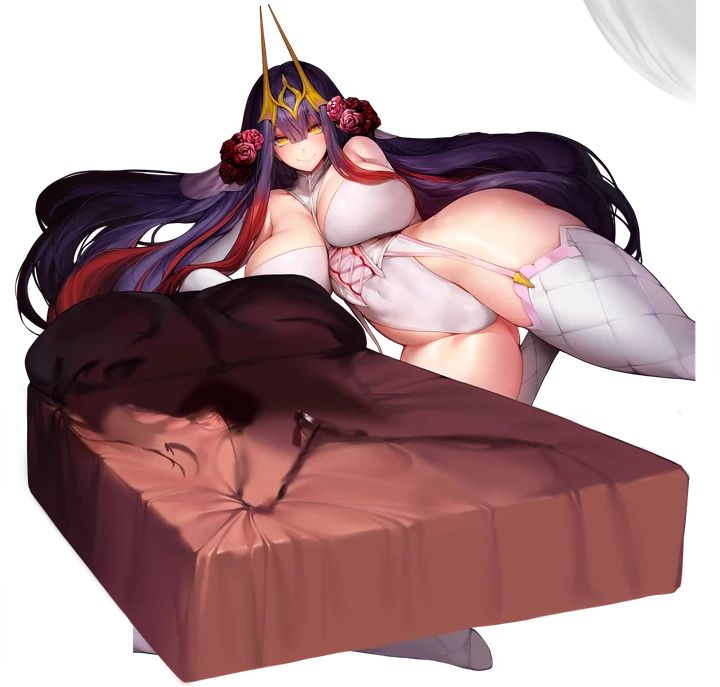
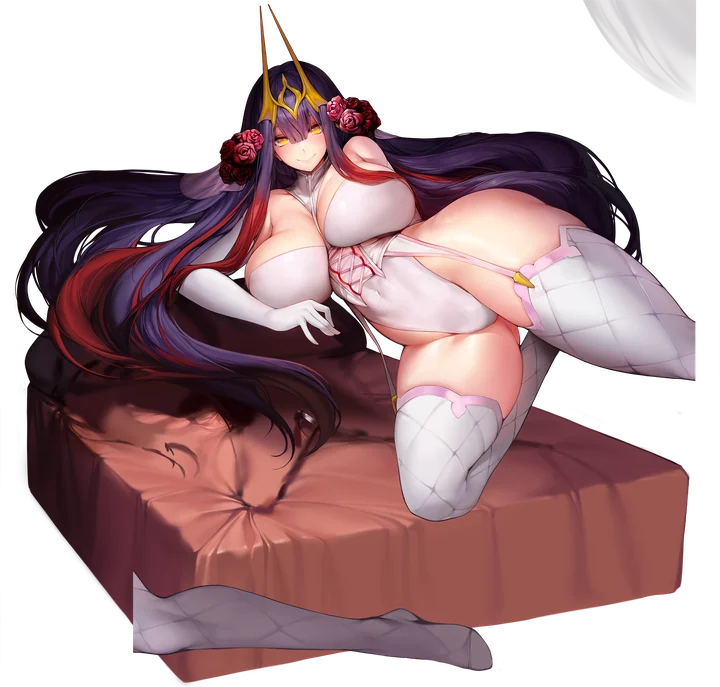
스킨·중파 일러스트 19장의 파츠 겹침 순서 수정(part1 인물이 맨 앞): 타이런트 소녀폭군·골타리온·에키드나·흐레스벨그·실피드·홍련·이터니티 등, v0.56
- tools/extract_forms.py 가 번호가 큰 파츠(장비·이펙트)를 위에 덮던 순서를 반대로
- 원본 파츠와 비교해 잘못 합성된 19장만 다시 만들고 ASSET_REV 로 캐시 갱신
- 이터니티 2번 스킨 중파는 파츠 하나만 들어가 있던 것을 전체 합성으로

Changed region(s): [[0.0611, 0.3974, 0.4889, 0.6725], [0.1833, 0.8253, 0.6417, 0.9782], [0.5194, 0.5197, 0.7333, 0.7642]]

diff --git a/js/forms.js b/js/forms.js
@@ -1,3 +1,3 @@
 // auto-generated by tools/extract_forms.py : 스킨 진화 형태 / 중파 일러스트
 const FORMS = {"leprechaun": {"dam": false, "forms": []}, "gnome": {"dam": true, "forms": [{"skin": "NS1", "dam": true, "voice": true, "icon": true}, {"skin": "NS2", "dam": false, "voice": true, "icon": true}]}, "harpy": {"dam": false, "forms": [{"skin": "NS1", "dam": false, "voice": true, "icon": true}, {"skin": "NS2", "dam": false, "voice": true, "icon": true}]}, "brownie": {"dam": false, "forms": []}, "hyena": {"dam": false, "forms": [{"skin": "NS1", "dam": true, "voice": true, "icon": true}, {"skin": "NS2", "dam": true, "voice": true, "icon": true}]}, "gremlin": {"dam": false, "forms": [{"skin": "NS1", "dam": false, "voice": true, "icon": true}]}, "nymph": {"dam": false, "forms": [{"skin": "NS1", "dam": false, "voice": true, "icon": true}, {"skin": "NS2", "dam": true, "voice": true, "icon": true}]}, "sylphid": {"dam": false, "forms": [{"skin": "NS1", "dam": true, "voice": true, "icon": true}]}, "pixie": {"dam": false, "forms": []}, "undine": {"dam": false, "forms": [{"skin": "NS1", "dam": false, "voice": true, "icon": true}, {"skin": "NS2", "dam": true, "voice": true, "icon": true}]}, "spriggan": {"dam": false, "forms": [{"skin": "NS1", "dam": false, "voice": true, "icon": true}]}, "impet": {"dam": false, "forms": [{"skin": "NS1", "dam": false, "voice": true, "icon": true}]}, "miho": {"dam": false, "forms": [{"skin": "NS2", "dam": false, "voice": true, "icon": true}, {"skin": "NS3", "dam": false, "voice": true, "icon": true}]}, "bulgasari": {"dam": false, "forms": [{"skin": "NS1", "dam": true, "voice": true, "icon": true}, {"skin": "NS2", "dam": true, "voice": true, "icon": true}]}, "talonfeather": {"dam": false, "forms": [{"skin": "NS1", "dam": true, "voice": true, "icon": true}, {"skin": "NS2", "dam": false, "voice": true, "icon": true}]}, "hraesvelgr": {"dam": false, "forms": [{"skin": "NS1", "dam": false, "voice": true, "icon": true}, {"skin": "NS2", "dam": false, "voice": false, "icon": true}]}, "perrault": {"dam": true, "forms": [{"skin": "NS2", "dam": false, "voice": true, "icon": true}, {"skin": "NS3", "dam": true, "voice": true, "icon": true}]}, "alice": {"dam": false, "forms": [{"skin": "NS2", "dam": false, "voice": true, "icon": true}, {"skin": "NS3", "dam": true, "voice": true, "icon": true}]}, "gigantes": {"dam": false, "forms": []}, "daika": {"dam": false, "forms": [{"skin": "NS1", "dam": true, "voice": false, "icon": true}]}, "bloodypanther": {"dam": false, "forms": [{"skin": "NS1", "dam": true, "voice": true, "icon": true}]}, "cheona": {"dam": true, "forms": [{"skin": "NS1", "dam": true, "voice": true, "icon": true}, {"skin": "NS2", "dam": false, "voice": true, "icon": true}]}, "phantom": {"dam": false, "forms": [{"skin": "NS1", "dam": false, "voice": true, "icon": true}]}, "valkyrie": {"dam": false, "forms": [{"skin": "NS1", "dam": false, "voice": true, "icon": true}, {"skin": "NS2", "dam": false, "voice": true, "icon": true}, {"skin": "NS3", "dam": false, "voice": true, "icon": true}, {"skin": "NS4", "dam": true, "voice": true, "icon": true}]}, "tyrant": {"dam": false, "forms": [{"skin": "NS1", "dam": false, "voice": true, "icon": true}]}, "rampart": {"dam": false, "forms": [{"skin": "NS1", "dam": false, "voice": true, "icon": true}]}, "goltarion": {"dam": false, "forms": [{"skin": "NS1", "dam": false, "voice": true, "icon": true}]}, "lindwurm": {"dam": false, "forms": [{"skin": "NS1", "dam": false, "voice": true, "icon": true}, {"skin": "NS2", "dam": false, "voice": true, "icon": true}]}, "phoenix": {"dam": true, "forms": [{"skin": "NS1", "dam": true, "voice": true, "icon": true}, {"skin": "NS2", "dam": true, "voice": true, "icon": true}]}, "roc": {"dam": false, "forms": [{"skin": "NS1", "dam": true, "voice": true, "icon": true}]}, "fafnir": {"dam": false, "forms": []}, "hongryun": {"dam": true, "forms": [{"skin": "NS1", "dam": true, "voice": true, "icon": true}, {"skin": "NS2", "dam": false, "voice": true, "icon": true}, {"skin": "NS3", "dam": true, "voice": true, "icon": true}, {"skin": "NS4", "dam": false, "voice": true, "icon": true}]}, "echidna": {"dam": false, "forms": [{"skin": "NS1", "dam": false, "voice": true, "icon": true}, {"skin": "NS2", "dam": false, "voice": true, "icon": true}, {"skin": "NS3", "dam": true, "voice": true, "icon": true}]}, "efreeti": {"dam": false, "forms": [{"skin": "NS1", "dam": true, "voice": true, "icon": true}]}, "blackhound": {"dam": false, "forms": [{"skin": "NS1", "dam": false, "voice": true, "icon": true}, {"skin": "NS2", "dam": false, "voice": true, "icon": true}]}, "leona": {"dam": false, "forms": [{"skin": "NS2", "dam": false, "voice": true, "icon": true}, {"skin": "NS3", "dam": false, "voice": true, "icon": true}, {"skin": "NS4", "dam": false, "voice": true, "icon": true}]}, "blacklilith": {"dam": false, "forms": [{"skin": "NS1", "dam": false, "voice": false, "icon": true}]}, "eternity": {"dam": true, "forms": [{"skin": "NS1", "dam": true, "voice": true, "icon": true}, {"skin": "NS2", "dam": false, "voice": true, "icon": true}, {"skin": "NS3", "dam": false, "voice": true, "icon": true}]}};
-const FORM_SIZES = {"leprechaun_1": [720, 690], "gnome_dam": [670, 720], "gnome_1": [372, 720], "gnome_1_dam": [405, 720], "gnome_2": [336, 720], "gnome_2_dam": [537, 720], "harpy_1": [700, 720], "harpy_2": [340, 720], "hyena_1": [542, 720], "hyena_1_dam": [558, 720], "hyena_2": [709, 720], "hyena_2_dam": [519, 720], "gremlin_1": [720, 637], "nymph_1": [395, 720], "nymph_2": [644, 720], "nymph_2_dam": [636, 720], "sylphid_1": [457, 720], "sylphid_1_dam": [703, 720], "undine_1": [720, 679], "undine_2": [503, 720], "undine_2_dam": [720, 632], "spriggan_1": [365, 720], "impet_1": [566, 720], "miho_1": [717, 720], "miho_2": [720, 469], "bulgasari_1": [301, 720], "bulgasari_1_dam": [689, 720], "bulgasari_2": [512, 720], "bulgasari_2_dam": [579, 720], "talonfeather_1": [720, 587], "talonfeather_1_dam": [720, 457], "talonfeather_2": [619, 720], "hraesvelgr_1": [366, 720], "hraesvelgr_2": [720, 720], "perrault_dam": [720, 667], "perrault_1": [685, 720], "perrault_2": [684, 720], "perrault_2_dam": [515, 720], "alice_1": [427, 720], "alice_2": [695, 720], "alice_2_dam": [711, 720], "daika_1": [436, 720], "daika_1_dam": [437, 720], "bloodypanther_1": [700, 720], "bloodypanther_1_dam": [518, 720], "cheona_dam": [659, 720], "cheona_1": [304, 720], "cheona_1_dam": [684, 720], "cheona_2": [720, 668], "phantom_1": [585, 720], "valkyrie_1": [552, 720], "valkyrie_2": [696, 720], "valkyrie_3": [701, 720], "valkyrie_4": [720, 603], "valkyrie_4_dam": [669, 720], "tyrant_1": [718, 720], "rampart_1": [638, 720], "goltarion_1": [720, 712], "lindwurm_1": [424, 720], "lindwurm_2": [388, 720], "phoenix_dam": [699, 720], "phoenix_1": [636, 720], "phoenix_1_dam": [692, 720], "phoenix_2": [615, 720], "phoenix_2_dam": [720, 590], "roc_1": [720, 490], "roc_1_dam": [720, 643], "hongryun_dam": [580, 720], "hongryun_1": [678, 720], "hongryun_1_dam": [524, 720], "hongryun_2": [641, 720], "hongryun_2_dam": [622, 720], "hongryun_3": [615, 720], "hongryun_3_dam": [720, 560], "hongryun_4": [309, 720], "echidna_1": [720, 698], "echidna_2": [720, 687], "echidna_3": [527, 720], "echidna_3_dam": [622, 720], "efreeti_1": [503, 720], "efreeti_1_dam": [662, 720], "blackhound_1": [510, 720], "blackhound_2": [432, 720], "leona_1": [720, 717], "leona_2": [720, 691], "leona_3": [619, 720], "blacklilith_1": [499, 720], "blacklilith_2": [451, 720], "blacklilith_2_dam": [720, 651], "blacklilith_3": [519, 720], "eternity_dam": [720, 650], "eternity_1": [677, 720], "eternity_1_dam": [644, 720], "eternity_2": [720, 719], "eternity_2_dam": [720, 313], "eternity_3": [720, 475]};
+const FORM_SIZES = {"leprechaun_1": [720, 690], "gnome_dam": [670, 720], "gnome_1": [372, 720], "gnome_1_dam": [405, 720], "gnome_2": [336, 720], "gnome_2_dam": [537, 720], "harpy_1": [700, 720], "harpy_2": [340, 720], "hyena_1": [542, 720], "hyena_1_dam": [558, 720], "hyena_2": [709, 720], "hyena_2_dam": [519, 720], "gremlin_1": [720, 637], "nymph_1": [395, 720], "nymph_2": [644, 720], "nymph_2_dam": [636, 720], "sylphid_1": [457, 720], "sylphid_1_dam": [703, 720], "undine_1": [720, 679], "undine_2": [503, 720], "undine_2_dam": [720, 632], "spriggan_1": [365, 720], "impet_1": [566, 720], "miho_1": [717, 720], "miho_2": [720, 469], "bulgasari_1": [301, 720], "bulgasari_1_dam": [689, 720], "bulgasari_2": [512, 720], "bulgasari_2_dam": [579, 720], "talonfeather_1": [720, 587], "talonfeather_1_dam": [720, 457], "talonfeather_2": [619, 720], "hraesvelgr_1": [366, 720], "hraesvelgr_2": [720, 720], "perrault_dam": [720, 667], "perrault_1": [685, 720], "perrault_2": [684, 720], "perrault_2_dam": [515, 720], "alice_1": [427, 720], "alice_2": [695, 720], "alice_2_dam": [711, 720], "daika_1": [436, 720], "daika_1_dam": [437, 720], "bloodypanther_1": [700, 720], "bloodypanther_1_dam": [518, 720], "cheona_dam": [659, 720], "cheona_1": [304, 720], "cheona_1_dam": [684, 720], "cheona_2": [720, 668], "phantom_1": [585, 720], "valkyrie_1": [552, 720], "valkyrie_2": [696, 720], "valkyrie_3": [701, 720], "valkyrie_4": [720, 603], "valkyrie_4_dam": [669, 720], "tyrant_1": [718, 720], "rampart_1": [638, 720], "goltarion_1": [720, 712], "lindwurm_1": [424, 720], "lindwurm_2": [388, 720], "phoenix_dam": [699, 720], "phoenix_1": [636, 720], "phoenix_1_dam": [692, 720], "phoenix_2": [615, 720], "phoenix_2_dam": [720, 590], "roc_1": [720, 490], "roc_1_dam": [720, 643], "hongryun_dam": [580, 720], "hongryun_1": [678, 720], "hongryun_1_dam": [524, 720], "hongryun_2": [641, 720], "hongryun_2_dam": [622, 720], "hongryun_3": [615, 720], "hongryun_3_dam": [720, 560], "hongryun_4": [309, 720], "echidna_1": [720, 698], "echidna_2": [720, 687], "echidna_3": [527, 720], "echidna_3_dam": [622, 720], "efreeti_1": [503, 720], "efreeti_1_dam": [662, 720], "blackhound_1": [510, 720], "blackhound_2": [432, 720], "leona_1": [720, 717], "leona_2": [720, 691], "leona_3": [619, 720], "blacklilith_1": [499, 720], "blacklilith_2": [451, 720], "blacklilith_2_dam": [720, 651], "blacklilith_3": [519, 720], "eternity_dam": [720, 650], "eternity_1": [677, 720], "eternity_1_dam": [644, 720], "eternity_2": [720, 719], "eternity_2_dam": [720, 532], "eternity_3": [720, 475]};

diff --git a/js/formsextra.js b/js/formsextra.js
@@ -2,6 +2,6 @@
 Object.assign(FORMS, {"albatross": {"dam": false, "forms": [{"skin": "NS1", "dam": false, "voice": false, "icon": false}]}, "alexandra": {"dam": false, "forms": [{"skin": "NS2", "dam": false, "voice": false, "icon": false}]}, "constantia": {"dam": false, "forms": [{"skin": "NS0", "dam": false, "voice": false, "icon": false}]}, "erato": {"dam": false, "forms": [{"skin": "NS2", "dam": false, "voice": false, "icon": false}]}, "fallen": {"dam": false, "forms": [{"skin": "RV", "dam": false, "voice": false, "icon": false}]}, "frigga": {"dam": false, "forms": [{"skin": "NS2", "dam": false, "voice": false, "icon": false}]}, "habetrot": {"dam": false, "forms": [{"skin": "NS1", "dam": false, "voice": false, "icon": false}]}, "janghwa": {"dam": false, "forms": [{"skin": "NS1", "dam": false, "voice": false, "icon": false}]}, "khan": {"dam": false, "forms": [{"skin": "NS1", "dam": false, "voice": false, "icon": false}]}, "kunoichizero": {"dam": false, "forms": [{"skin": "NS2", "dam": false, "voice": false, "icon": false}]}, "lrl": {"dam": false, "forms": [{"skin": "NS4", "dam": false, "voice": false, "icon": false}]}, "may": {"dam": false, "forms": [{"skin": "NS2", "dam": false, "voice": false, "icon": false}]}, "mercury": {"dam": false, "forms": [{"skin": "NS1", "dam": false, "voice": false, "icon": false}]}, "muse": {"dam": false, "forms": [{"skin": "NS1", "dam": false, "voice": false, "icon": false}]}, "neodym": {"dam": false, "forms": [{"skin": "NS1", "dam": false, "voice": false, "icon": false}]}, "nightangel": {"dam": false, "forms": [{"skin": "NS2", "dam": false, "voice": false, "icon": false}]}, "pa00el": {"dam": false, "forms": [{"skin": "NS2", "dam": false, "voice": false, "icon": false}]}, "rena": {"dam": false, "forms": [{"skin": "NS1", "dam": false, "voice": false, "icon": false}]}, "salamander": {"dam": false, "forms": [{"skin": "NS1", "dam": false, "voice": false, "icon": false}]}, "saraqael": {"dam": false, "forms": [{"skin": "NS1", "dam": false, "voice": false, "icon": false}]}, "scathy": {"dam": false, "forms": [{"skin": "NS1", "dam": false, "voice": false, "icon": false}]}, "sleipnir": {"dam": false, "forms": [{"skin": "NS2", "dam": false, "voice": false, "icon": false}]}, "sonia": {"dam": false, "forms": [{"skin": "NS1", "dam": false, "voice": false, "icon": false}]}, "stratoangel": {"dam": false, "forms": [{"skin": "NS1", "dam": false, "voice": false, "icon": false}]}});
 Object.assign(FORM_SIZES, {"albatross_1": [720, 719], "alexandra_1": [437, 720], "constantia_1": [449, 720], "erato_1": [225, 720], "fallen_1": [639, 720], "frigga_1": [269, 720], "habetrot_1": [314, 720], "janghwa_1": [577, 720], "khan_1": [321, 720], "kunoichizero_1": [489, 720], "lrl_1": [595, 720], "may_1": [720, 692], "mercury_1": [573, 720], "muse_1": [343, 720], "neodym_1": [581, 720], "nightangel_1": [720, 706], "pa00el_1": [299, 720], "rena_1": [260, 720], "salamander_1": [327, 720], "saraqael_1": [687, 720], "scathy_1": [520, 720], "sleipnir_1": [301, 720], "sonia_1": [323, 720], "stratoangel_1": [717, 720]});
 // 같은 파일명으로 교체한 기본 그림은 캐시를 새로 받는다
-Object.assign(ASSET_REV, {"full/lemonbeta": 3, "full/ajax": 2, "full/albatross": 2, "full/alexandra": 2, "full/amphitrite": 2, "full/brunhild": 2, "full/constantia": 4, "full/drm": 2, "full/erato": 2, "full/fallen": 2, "full/frigga": 2, "full/glacias": 2, "full/habetrot": 2, "full/janghwa": 2, "full/khan": 2, "full/kunoichizero": 2, "full/lrl": 3, "full/may": 2, "full/melite": 2, "full/mercury": 2, "full/mnemosyne": 2, "full/muse": 2, "full/neodym": 2, "full/nightangel": 2, "full/pa00el": 2, "full/peregrinus": 2, "full/ramiel": 2, "full/rena": 2, "full/sadius": 2, "full/salacia": 2, "full/salamander": 2, "full/saraqael": 2, "full/scarabya": 2, "full/scathy": 2, "full/sirene": 2, "full/sleipnir": 2, "full/sonia": 2, "full/stratoangel": 2, "full/vargr": 2});
+Object.assign(ASSET_REV, {"full/lemonbeta": 3, "full/ajax": 2, "full/albatross": 2, "full/alexandra": 2, "full/amphitrite": 2, "full/brunhild": 2, "full/constantia": 4, "full/drm": 2, "full/erato": 2, "full/fallen": 2, "full/frigga": 2, "full/glacias": 2, "full/habetrot": 2, "full/janghwa": 2, "full/khan": 2, "full/kunoichizero": 2, "full/lrl": 3, "full/may": 2, "full/melite": 2, "full/mercury": 2, "full/mnemosyne": 2, "full/muse": 2, "full/neodym": 2, "full/nightangel": 2, "full/pa00el": 2, "full/peregrinus": 2, "full/ramiel": 2, "full/rena": 2, "full/sadius": 2, "full/salacia": 2, "full/salamander": 2, "full/saraqael": 2, "full/scarabya": 2, "full/scathy": 2, "full/sirene": 2, "full/sleipnir": 2, "full/sonia": 2, "full/stratoangel": 2, "full/vargr": 2, "full/valkyrie_4_dam": 2, "full/miho_2": 2, "full/hyena_1": 2, "full/hyena_2_dam": 2, "full/alice_2": 2, "full/gnome_2": 2, "full/gnome_2_dam": 2, "full/tyrant_1": 2, "full/goltarion_1": 2, "full/echidna_2": 2, "full/hraesvelgr_2": 2, "full/talonfeather_1": 2, "full/sylphid_1": 2, "full/phoenix_1_dam": 2, "full/phoenix_2_dam": 2, "full/hongryun_1": 2, "full/hongryun_2_dam": 2, "full/eternity_2": 2, "full/eternity_2_dam": 2});
 // 다시 만든 SD 리그는 캐시를 새로 받는다 (js/sd.js 가 ?r= 를 붙임)
 window.SD_REV = Object.assign(window.SD_REV || {}, { lemongamma: 3, lemonalpha: 3, lemonepsilon: 3, perrault: 2 });

diff --git a/index.html b/index.html
@@ -3,7 +3,7 @@
 <head>
 <meta charset="utf-8">
 <meta name="viewport" content="width=device-width,initial-scale=1,maximum-scale=1,user-scalable=no">
-<title>라스트 로이드 - LAST ROID v0.55</title>
+<title>라스트 로이드 - LAST ROID v0.56</title>
 <link rel="preconnect" href="https://fonts.googleapis.com">
 <link href="https://fonts.googleapis.com/css2?family=Black+Han+Sans&family=Noto+Sans+KR:wght@500;600;700;800;900&display=swap" rel="stylesheet">
 <style>
@@ -67,42 +67,42 @@
   </div>
   <div class="btn" data-act="menu">MENU</div>
 </div>
-<script src="js/pack.js?v=150"></script>
-<script src="js/sd.js?v=150"></script>
-<script src="js/sd/index.js?v=150"></script>
-<script src="js/assetsizes.js?v=150"></script>
-<script src="js/facing.js?v=150"></script>
-<script src="js/forms.js?v=150"></script>
-<script src="js/skinnames.js?v=150"></script>
-<script src="js/data.js?v=150"></script>
-<script src="js/fximg.js?v=150"></script>
-<script src="js/fx.js?v=150"></script>
-<script src="js/core.js?v=150"></script>
-<script src="js/formsextra.js?v=150"></script>
-<script src="js/ui.js?v=150"></script>
-<script src="js/battleanchor-data.js?v=150"></script>
-<script src="js/battleanchors.js?v=150"></script>
-<script src="js/battle.js?v=150"></script>
-<script src="js/battleui.js?v=150"></script>
-<script src="js/fx/_meta.js?v=150"></script>
-<script src="js/fxbake.js?v=150"></script>
-<script src="js/battlefx.js?v=150"></script>
-<script src="js/maps.js?v=150"></script>
-<script src="js/sdfield.js?v=150"></script>
-<script src="js/commander.js?v=150"></script>
-<script src="js/world.js?v=150"></script>
-<script src="js/terrain.js?v=150"></script>
-<script src="js/game.js?v=150"></script>
-<script src="js/league.js?v=150"></script>
-<script src="js/rosterdata.js?v=150"></script>
-<script src="js/roster.js?v=150"></script>
-<script src="js/quests.js?v=150"></script>
-<script src="js/mobilefield.js?v=150"></script>
-<script src="js/portraitui.js?v=150"></script>
-<script src="js/townwarp.js?v=150"></script>
-<script src="js/titlelayout.js?v=150"></script>
-<script src="js/battleportrait.js?v=150"></script>
-<script src="js/skillfx.js?v=150"></script>
-<script src="js/crashlog.js?v=150"></script>
+<script src="js/pack.js?v=151"></script>
+<script src="js/sd.js?v=151"></script>
+<script src="js/sd/index.js?v=151"></script>
+<script src="js/assetsizes.js?v=151"></script>
+<script src="js/facing.js?v=151"></script>
+<script src="js/forms.js?v=151"></script>
+<script src="js/skinnames.js?v=151"></script>
+<script src="js/data.js?v=151"></script>
+<script src="js/fximg.js?v=151"></script>
+<script src="js/fx.js?v=151"></script>
+<script src="js/core.js?v=151"></script>
+<script src="js/formsextra.js?v=151"></script>
+<script src="js/ui.js?v=151"></script>
+<script src="js/battleanchor-data.js?v=151"></script>
+<script src="js/battleanchors.js?v=151"></script>
+<script src="js/battle.js?v=151"></script>
+<script src="js/battleui.js?v=151"></script>
+<script src="js/fx/_meta.js?v=151"></script>
+<script src="js/fxbake.js?v=151"></script>
+<script src="js/battlefx.js?v=151"></script>
+<script src="js/maps.js?v=151"></script>
+<script src="js/sdfield.js?v=151"></script>
+<script src="js/commander.js?v=151"></script>
+<script src="js/world.js?v=151"></script>
+<script src="js/terrain.js?v=151"></script>
+<script src="js/game.js?v=151"></script>
+<script src="js/league.js?v=151"></script>
+<script src="js/rosterdata.js?v=151"></script>
+<script src="js/roster.js?v=151"></script>
+<script src="js/quests.js?v=151"></script>
+<script src="js/mobilefield.js?v=151"></script>
+<script src="js/portraitui.js?v=151"></script>
+<script src="js/townwarp.js?v=151"></script>
+<script src="js/titlelayout.js?v=151"></script>
+<script src="js/battleportrait.js?v=151"></script>
+<script src="js/skillfx.js?v=151"></script>
+<script src="js/crashlog.js?v=151"></script>
 </body>
 </html>

diff --git a/js/game.js b/js/game.js
@@ -64,7 +64,7 @@ class Mon {
 //  게임 상태
 // ---------------------------------------------------------------------
 const SAVE_KEY = 'racketmon_save_v1';
-const GAME_VERSION = 'v0.55';
+const GAME_VERSION = 'v0.56';
 const Game = {
   party: [], box: [], bag: {}, money: 3000, dex: { seen: {}, caught: {} }, flags: {}, badges: [], stats: {}, taken: {}, quests: {},
   map: 'lab', px: 6, py: 6, dir: 'up', playTime: 0, lastHeal: ['center1', 7, 7, 'up'], pendingPromote: new Set(),

diff --git a/tools/extract_forms.py b/tools/extract_forms.py
@@ -45,7 +45,8 @@ def compose(base, skin, dam):
     if not ims:
         return None
     out = Image.new('RGBA', (2048, 2048))
-    for im in ims:
+    # part1 이 맨 앞(인물), 번호가 클수록 뒤쪽 레이어(장비·배경)라 역순으로 깐다
+    for im in reversed(ims):
         out.alpha_composite(im)
     return out
 
